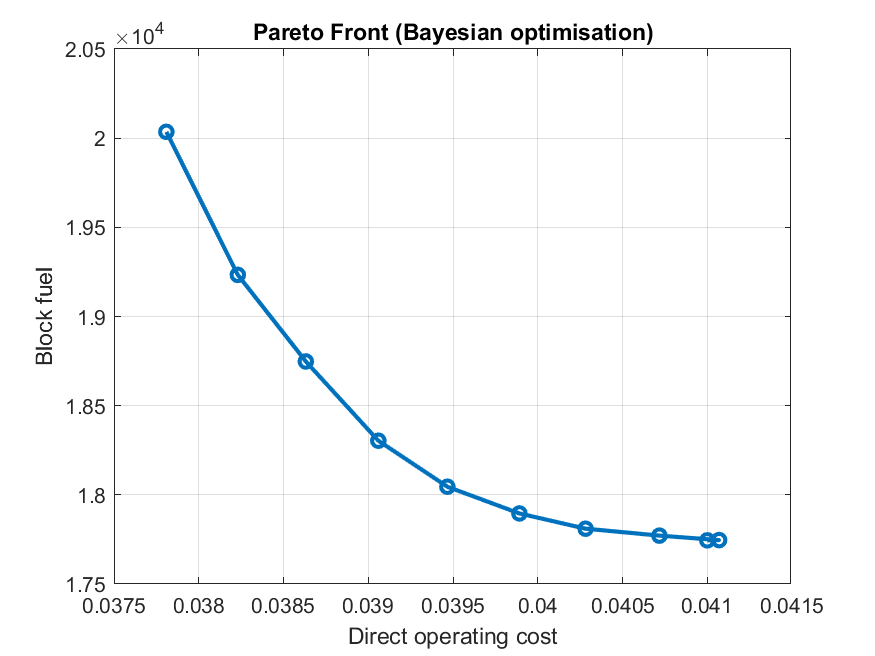
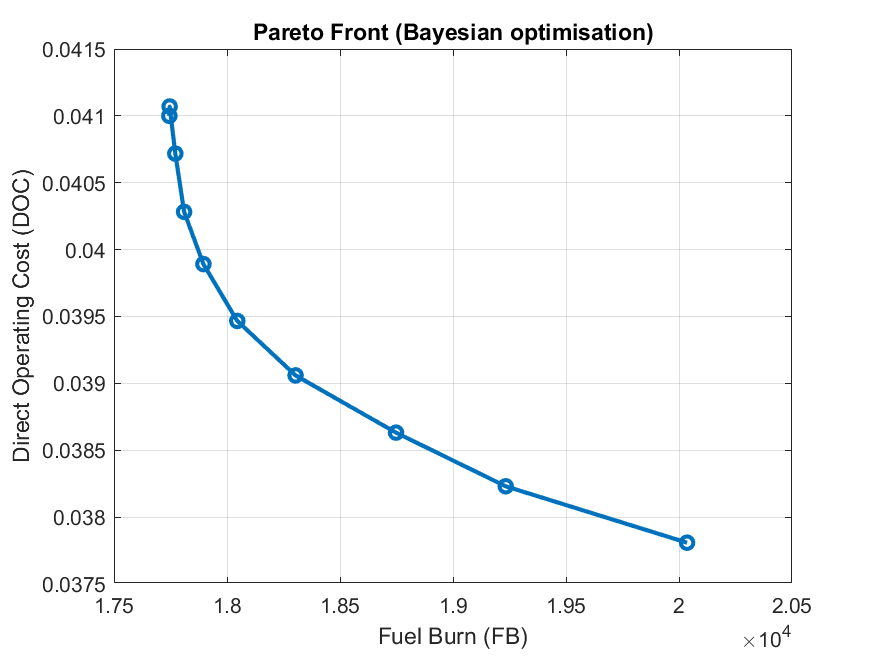
genetic algorithm for hinge position case (no surrogates)
epsilon-method for multi-objective optimisation, largely unsuccessful

diff --git a/main_uq.m b/main_uq.m
@@ -1837,9 +1837,9 @@ for ii = 1:N_pareto_points
 end    
 
 fig = figure();
-plot(toc_multi_obj, bf_multi_obj, 'o-', 'LineWidth', 2);
-xlabel('Direct operating cost');
-ylabel('Block fuel');
+plot(bf_multi_obj, toc_multi_obj, 'o-', 'LineWidth', 2);
+xlabel('Fuel Burn (FB)');
+ylabel('Direct Operating Cost (DOC)');
 title('Pareto Front (Bayesian optimisation)');
 grid on;
 saveas(fig, 'Pareto_opt_for_bf_and_toc.png')
@@ -1896,6 +1896,64 @@ saveas(fig, 'Pareto_opt_for_bf_and_toc_nastran.png')
 saveas(fig, 'Pareto_opt_for_bf_and_toc_nastran.fig')
 
 save('bayes_opt_multi_obj_det_opt_for_bf_and_toc_nastran.mat', 'bf_multi_obj', 'toc_multi_obj', 'x_opt_multi_obj')
+
+%% 15. Genetic algorithm - Deterministic multi-objective optimisation (minimise block fuel and TOC)
+% first, minimise BF and TOC separately
+
+% Objective function
+objFun_bf = @(x) DetOptObjective_bf(x);
+% Bounds
+lb = [0, 0.45, 11, 0.45];  % Lower bounds
+ub = [45, 0.9, 23, 1];     % Upper bounds
+% Number of variables
+nvars = 4;
+% GA options
+options = optimoptions('ga', ...
+    'Display', 'iter', ...        % Show iteration details
+    'PopulationSize', 30, ...     % Increase population for better exploration
+    'MaxGenerations', 20, ...    % More generations for convergence
+    'PlotFcn', {@gaplotbestf});   % Plot best fitness over generations
+% Run GA
+[x_opt_bf_ga, fval_bf_ga] = ga(objFun_bf, nvars, [], [], [], [], lb, ub, [], options);
+% Objective function
+objFun_toc = @(x) DetOptObjective_toc(x);
+% Solve
+[x_opt_toc_ga, fval_toc_ga] = ga(objFun_toc, nvars, [], [], [], [], lb, ub, [], options);
+
+% prepare multi-objective
+fval_toc_max_ga = DetOptObjective_toc(x_opt_bf_ga);
+fval_bf_max_ga = DetOptObjective_bf(x_opt_toc_ga);
+N_pareto_points = 10;
+x_opt_multi_obj_ga = zeros(N_pareto_points, nvars);
+fval_bf_multi_obj_ga = zeros(N_pareto_points, 1);
+fval_bf_multi_obj_ga(1) = fval_bf_max_ga;
+fval_bf_multi_obj_ga(end) = fval_bf_ga;
+fval_toc_multi_obj_ga = zeros(N_pareto_points, 1);
+fval_toc_multi_obj_ga(1) = fval_toc_ga;
+fval_toc_multi_obj_ga(end) = fval_toc_max_ga;
+multi_obj_toc_ga_threshold = linspace(fval_toc_ga, fval_toc_max_ga, N_pareto_points);
+for ii = 2:N_pareto_points-1
+    % Constraint function
+    nonlcon_pareto_ga = @(x) nonlinearConstraints_bf_toc(x, multi_obj_toc_ga_threshold(ii));
+    % Solve
+    [x_opt_ga_pareto, fval_ga_pareto] = ga(objFun_bf, nvars, [], [], [], [], lb, ub, nonlcon_pareto_ga, options);
+    x_opt_multi_obj_ga(ii, :) = x_opt_ga_pareto;
+    fval_bf_multi_obj_ga(ii) = fval_ga_pareto;
+    fval_toc_multi_obj_ga(ii) = DetOptObjective_toc(x_opt_ga_pareto);
+end    
+
+x_opt_multi_obj_ga(1, :) = x_opt_toc_ga;
+x_opt_multi_obj_ga(end, :) = x_opt_bf_ga;
+fig = figure();
+plot(fval_toc_multi_obj_ga, fval_bf_multi_obj_ga, 'o-', 'LineWidth', 2);
+xlabel('Direct operating cost');
+ylabel('Block fuel');
+title('Pareto Front (Genetic Algorithm)');
+grid on;
+saveas(fig, 'Pareto_opt_for_bf_and_toc_ga.png')
+saveas(fig, 'Pareto_opt_for_bf_and_toc_ga.fig')
+
+save('ga_multi_obj_det_opt_for_bf_and_toc.mat', 'fval_bf_multi_obj_ga', 'fval_toc_multi_obj_ga', 'x_opt_multi_obj_ga')
 
 %%
 function f = myObjectives(x, surrogates_bf_doc)
@@ -1981,4 +2039,37 @@ function [objective, constraint1] = BayesOptMultiObjectiveConstraints_nastran(x,
         objective = NaN;
         constraint1 = NaN;
     end
+end
+
+function objective = DetOptObjective_bf(x)
+    % Objective function
+    fun = @(x) physical_model_indep_sweep_ar_he_block_fuel(x);
+    try
+        objective = fun(x);
+    catch ME
+        fprintf('Error: %s\n', ME.message);
+        objective = 1e6;
+    end
+end
+
+function objective = DetOptObjective_toc(x)
+    % Objective function
+    fun = @(x) physical_model_indep_sweep_ar_he_toc(x);
+    try
+        objective = fun(x);
+    catch ME
+        fprintf('Error: %s\n', ME.message);
+        objective = 1e6;
+    end
+end
+
+function [c, ceq] = nonlinearConstraints_bf_toc(x, toc_threshold)
+    fun = @(x) physical_model_indep_sweep_ar_he_toc(x);
+    try
+        c = fun(x)-toc_threshold;
+    catch ME
+        fprintf('Error: %s\n', ME.message);
+        c = 1e6;
+    end
+    ceq = [];  % No equality constraints
 end